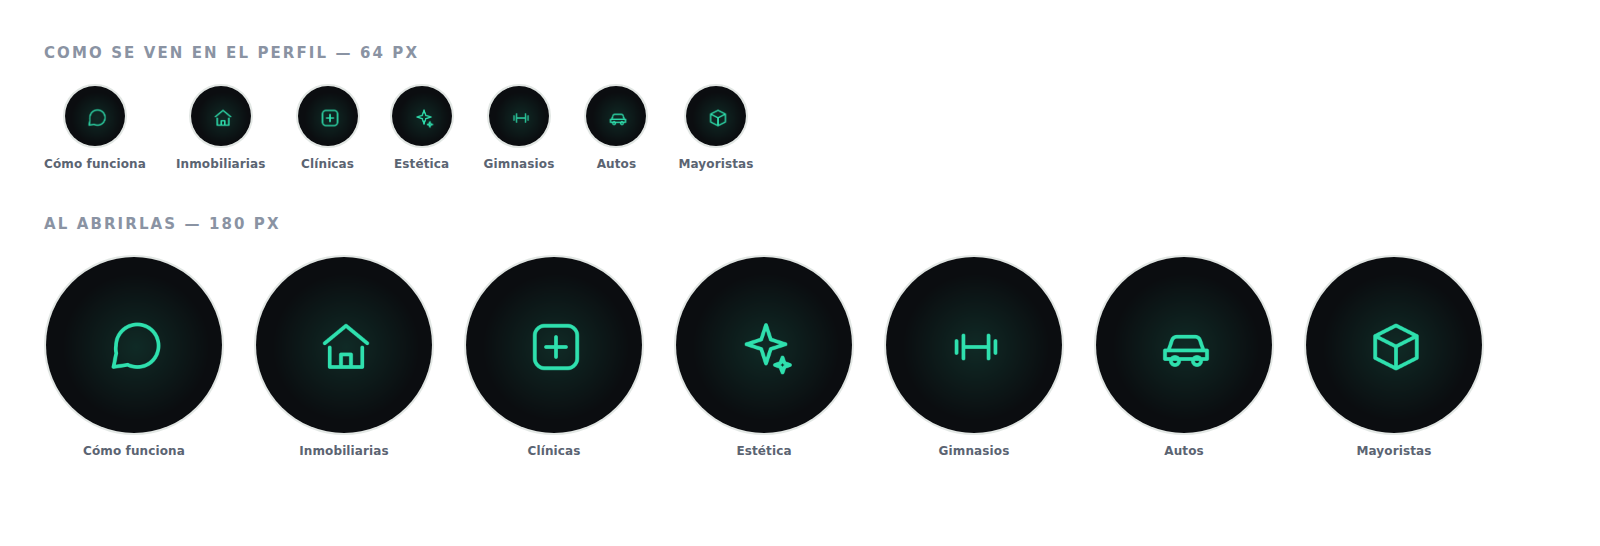
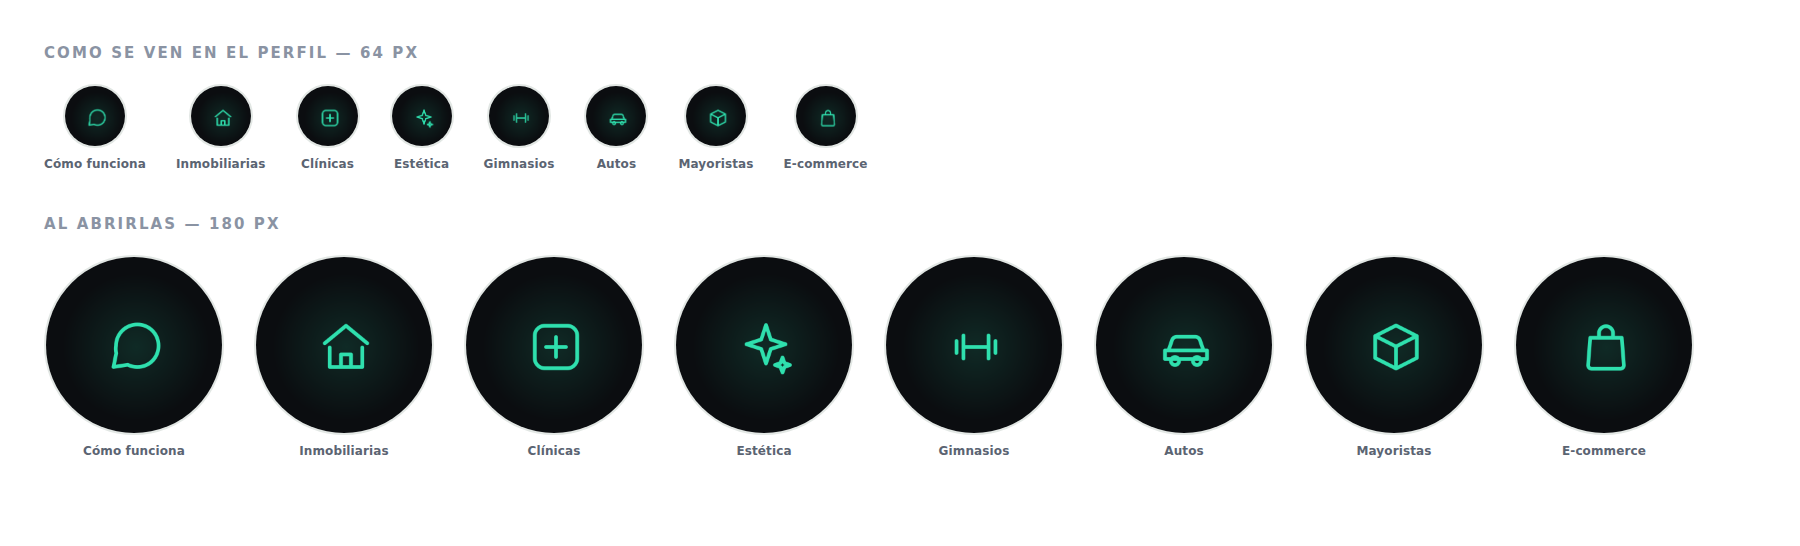
Agregar la destacada de e-commerce
Octavo rubro, con el mismo formato que los otros siete. La diferencia esta en
lo que separa los dos planes: aca no hay nada que agendar, asi que el salto al
Profesional es otro — busca el pedido en tu sistema y devuelve pago, envio y
guia. El Esencial contesta las consultas de productos y envios, que es lo que
se puede responder sin mirar ningun sistema.

Por eso este rubro vende solo: "¿donde esta mi pedido?" es la pregunta mas
repetida de todo el comercio electronico, y es justo la unica que no se
contesta sin entrar al sistema.

La foto costo tres intentos y de ahi salieron dos reglas, anotadas en
fondos/CREDITOS.md. La primera candidata era una pila de paquetes preciosa,
pero tenia Zalando tres veces, la flecha de Amazon y dos cajas de una bodega:
en una pieza comercial propia eso insinua una relacion que no existe. La
segunda era una notebook con una tarjeta, muy desenfocada, y despues del velo
quedaba un rectangulo gris. Lo que sobrevive al tratamiento es la forma, no el
color: hacen falta fotos con profundidad o repeticion.

Claude-Session: https://claude.ai/code/session_01FpebnBDAeZwhMGF9Jn3pu8

diff --git a/instagram/lib/destacada.js b/instagram/lib/destacada.js
@@ -30,7 +30,8 @@ const ICONOS = {
   // El auto necesita ruedas redondas de verdad: con dos rayitas debajo de una
   // caja, a 64 px parece un banco de plaza.
   auto: '<path d="M5 13.4 6.4 9.3A2 2 0 0 1 8.3 7.9h7.4a2 2 0 0 1 1.9 1.4l1.4 4.1"/><path d="M3.6 13.4h16.8v3.4H3.6z"/><circle cx="7.6" cy="17.6" r="1.6"/><circle cx="16.4" cy="17.6" r="1.6"/>',
-  caja: '<path d="M12 3.4 20.3 7.6v8.8L12 20.6 3.7 16.4V7.6z"/><path d="M3.7 7.6 12 11.8l8.3-4.2"/><path d="M12 11.8v8.8"/>'
+  caja: '<path d="M12 3.4 20.3 7.6v8.8L12 20.6 3.7 16.4V7.6z"/><path d="M3.7 7.6 12 11.8l8.3-4.2"/><path d="M12 11.8v8.8"/>',
+  bolsa: '<path d="M5.7 8.3h12.6l.85 10.9a1.4 1.4 0 0 1-1.4 1.5H6.25a1.4 1.4 0 0 1-1.4-1.5z"/><path d="M9.2 8.3V6.5a2.8 2.8 0 0 1 5.6 0v1.8"/>'
 };
 
 const LADO = { ancho: 1080, alto: 1920 };

diff --git a/instagram/fondos/CREDITOS.md b/instagram/fondos/CREDITOS.md
@@ -16,6 +16,21 @@ volver a bajarla o revisar la ficha original en `unsplash.com/photos/<id>`.
 | `gimnasios.jpg` | Una fila de mancuernas en un gimnasio | `1534438327276-14e5300c3a48` |
 | `concesionarias.jpg` | Manejando al atardecer | `1449965408869-eaa3f722e40d` |
 | `distribuidoras.jpg` | El pasillo de un depósito | `1553413077-190dd305871c` |
+| `ecommerce.jpg` | Pedidos preparados en un depósito | `1586528116311-ad8dd3c8310d` |
 
 Para cambiar una: se reemplaza el archivo con el mismo nombre y se vuelve a
 correr `node destacadas.js`. No hay que tocar nada más.
+
+## Un cuidado al elegir una foto
+
+**Que no tenga marcas de terceros legibles.** El primer candidato para
+`ecommerce.jpg` era una pila de paquetes preciosa, pero tenía Zalando tres
+veces, la flecha de Amazon y dos cajas de una bodega. En una pieza comercial
+tuya eso insinúa una relación que no existe, así que quedó afuera por más que
+la imagen fuera la mejor de todas.
+
+**Y que tenga estructura, no solo color.** Después del blanco y negro y del
+velo, lo único que sobrevive es la forma. Las fotos de objeto suelto sobre
+fondo liso — un paquete sobre una mesa, una notebook desenfocada — se apagan y
+dejan un rectángulo gris. Las que funcionan tienen profundidad o repetición:
+un pasillo, una estantería, una fila de mancuernas.

diff --git a/instagram/README.md b/instagram/README.md
@@ -377,7 +377,7 @@ node destacadas.js                 # las siete
 node destacadas.js inmobiliarias   # solo una
 ```
 
-Siete destacadas: una general de cómo funciona y seis por rubro. Cada una queda
+Ocho destacadas: una general de cómo funciona y siete por rubro. Cada una queda
 en `salida/destacadas/<slug>/`, con `portada.png` y `01.png`.
 
 ### Una sola imagen por destacada
@@ -436,7 +436,10 @@ es el piso. Si alguna necesita otro encuadre, se le pone `"encuadre"` en el JSON
 (por ejemplo `"center 30%"`).
 
 Para cambiar una foto se reemplaza el archivo con el mismo nombre y se vuelve a
-generar. Las que vienen son de Unsplash — ver `fondos/CREDITOS.md`.
+generar. Las que vienen son de Unsplash — ver `fondos/CREDITOS.md`, que además
+anota los dos filtros que hay que aplicarle a cualquier candidata: **que no
+tenga marcas de terceros legibles**, y **que tenga estructura y no solo color**,
+porque después del velo lo único que sobrevive es la forma.
 
 
 ### Los precios tienen que coincidir con la web
